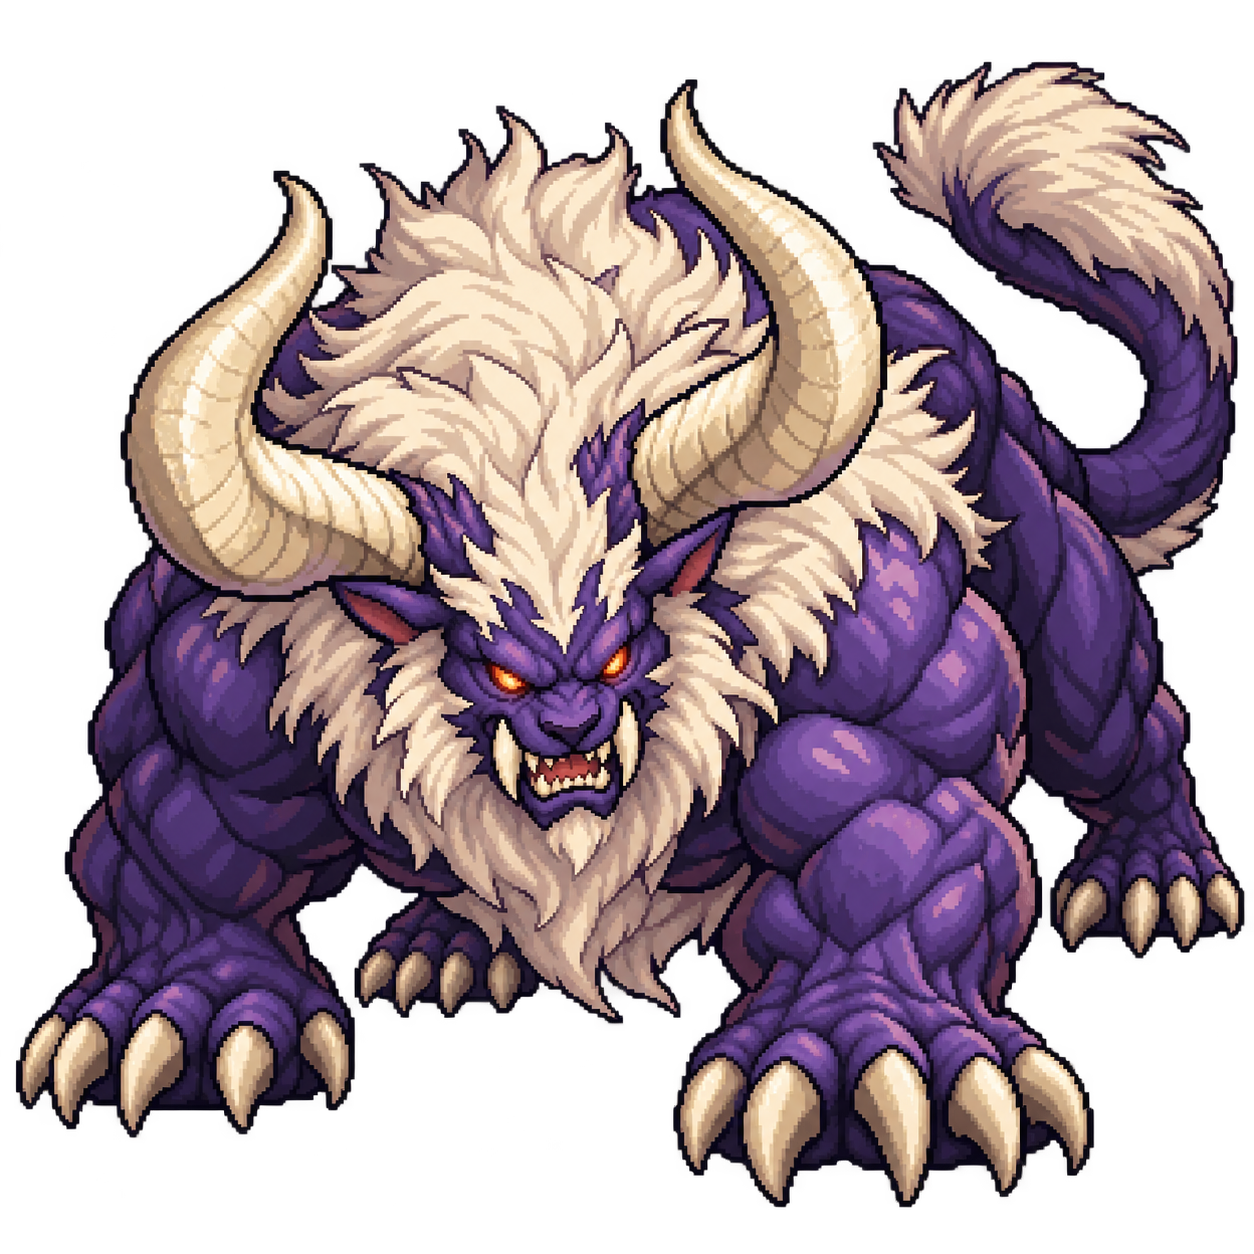
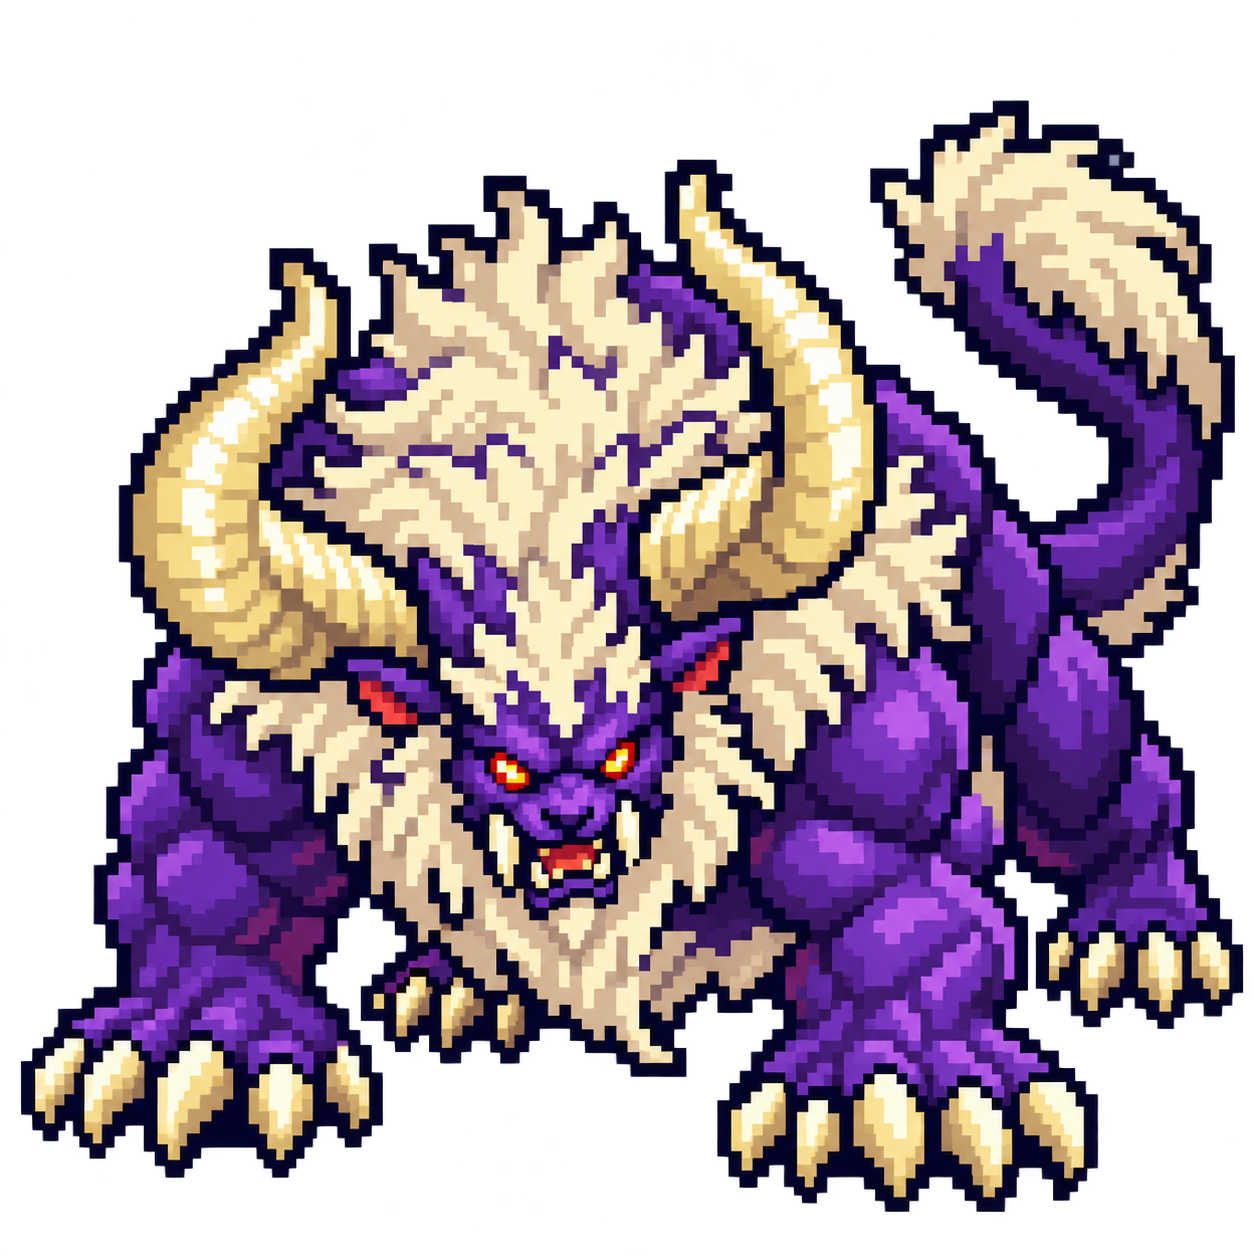
Redraw King Behinmos sprite in game pixel style

diff --git a/tiles/sprites/mon1/king_behinmos_art.md b/tiles/sprites/mon1/king_behinmos_art.md
@@ -7,11 +7,5 @@
 使用した生成指示全文（組み込みツール、背景透過指定）：
 
 ```text
-Use case: stylized-concept
-Asset type: transparent PNG monster sprite for a Japanese top-down roguelike, a single giant boss named キングベヒんもス.
-Primary request: one imposing king behemoth, a bulky four-legged horned beast with deep purple hide, huge shoulders, a cream-colored mane, two massive curved ivory horns, heavy clawed paws and a thick tail. Its expression is fierce but appealing and slightly comical, suitable for a playful roguelike. Ready to cast Meteor, subtle orange glow in its eyes.
-Style/medium: clean polished retro RPG pixel sprite, thick dark outlines, restrained pixel clusters, crisp readable shading. Match the charming small retro RPG monster aesthetic in the recent example, with a much broader and heavier silhouette.
-Composition/framing: full body, facing downward toward the viewer in slight three-quarter perspective. Square image, body fills most of canvas, all horns, paws and tail inside bounds, minimal 4% padding. One monster only.
-Scene/backdrop: genuinely transparent background, no floor, no colored square, no cast shadow extending beyond silhouette.
-Constraints: no text, no UI, no frame, no additional creatures, no weapons or accessories, no background. Preserve transparency. Intended to be displayed across a 3-by-3-tile 96-pixel-wide area.
+Edit the existing King Behinmos sprite, using two existing monster tiles as style references. Keep the recognizable purple four-legged beast, huge ivory horns, pale mane, orange eyes, claws, and thick tail. Redraw it as a compact retro pixel-art sprite that belongs beside the reference monsters: low-resolution pixel clusters, crisp stepped edges, limited palette, bold dark outline, simple readable shapes, restrained highlights, and no smooth digital painting, antialiasing, or 3D rendering. Use a slightly elevated three-quarter game-sprite view, facing forward, centered, with the full creature visible and a strong silhouette. Preserve the transparent background. No ground, text, frame, or extra objects. Make it legible across a 3×3 dungeon footprint; do not crop its horns, claws, mane, or tail.
 ```
